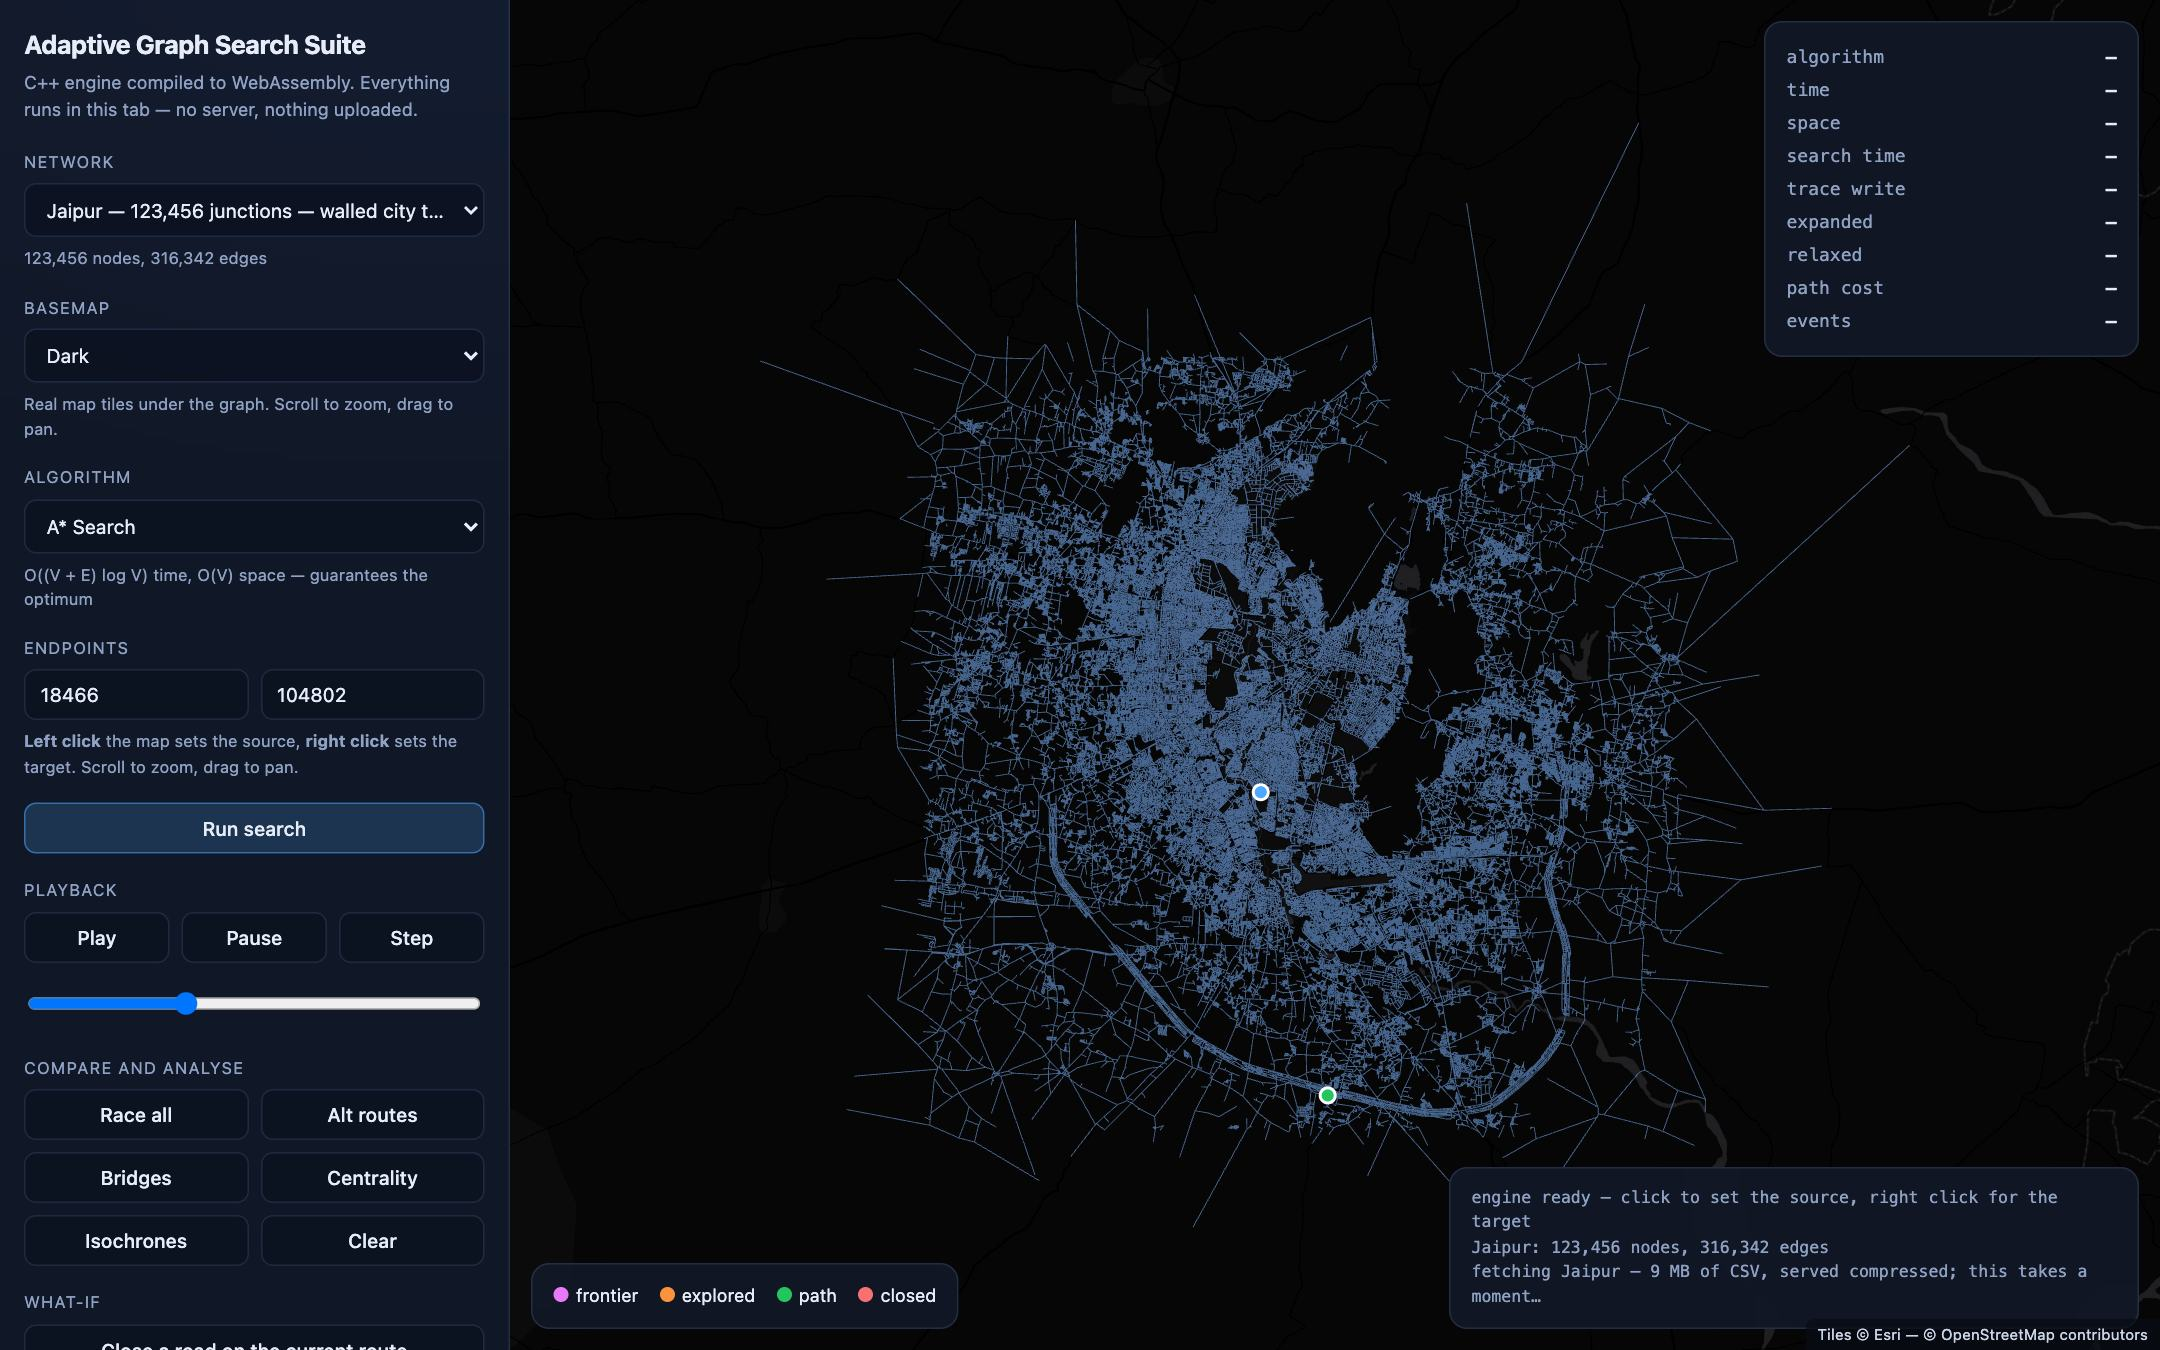
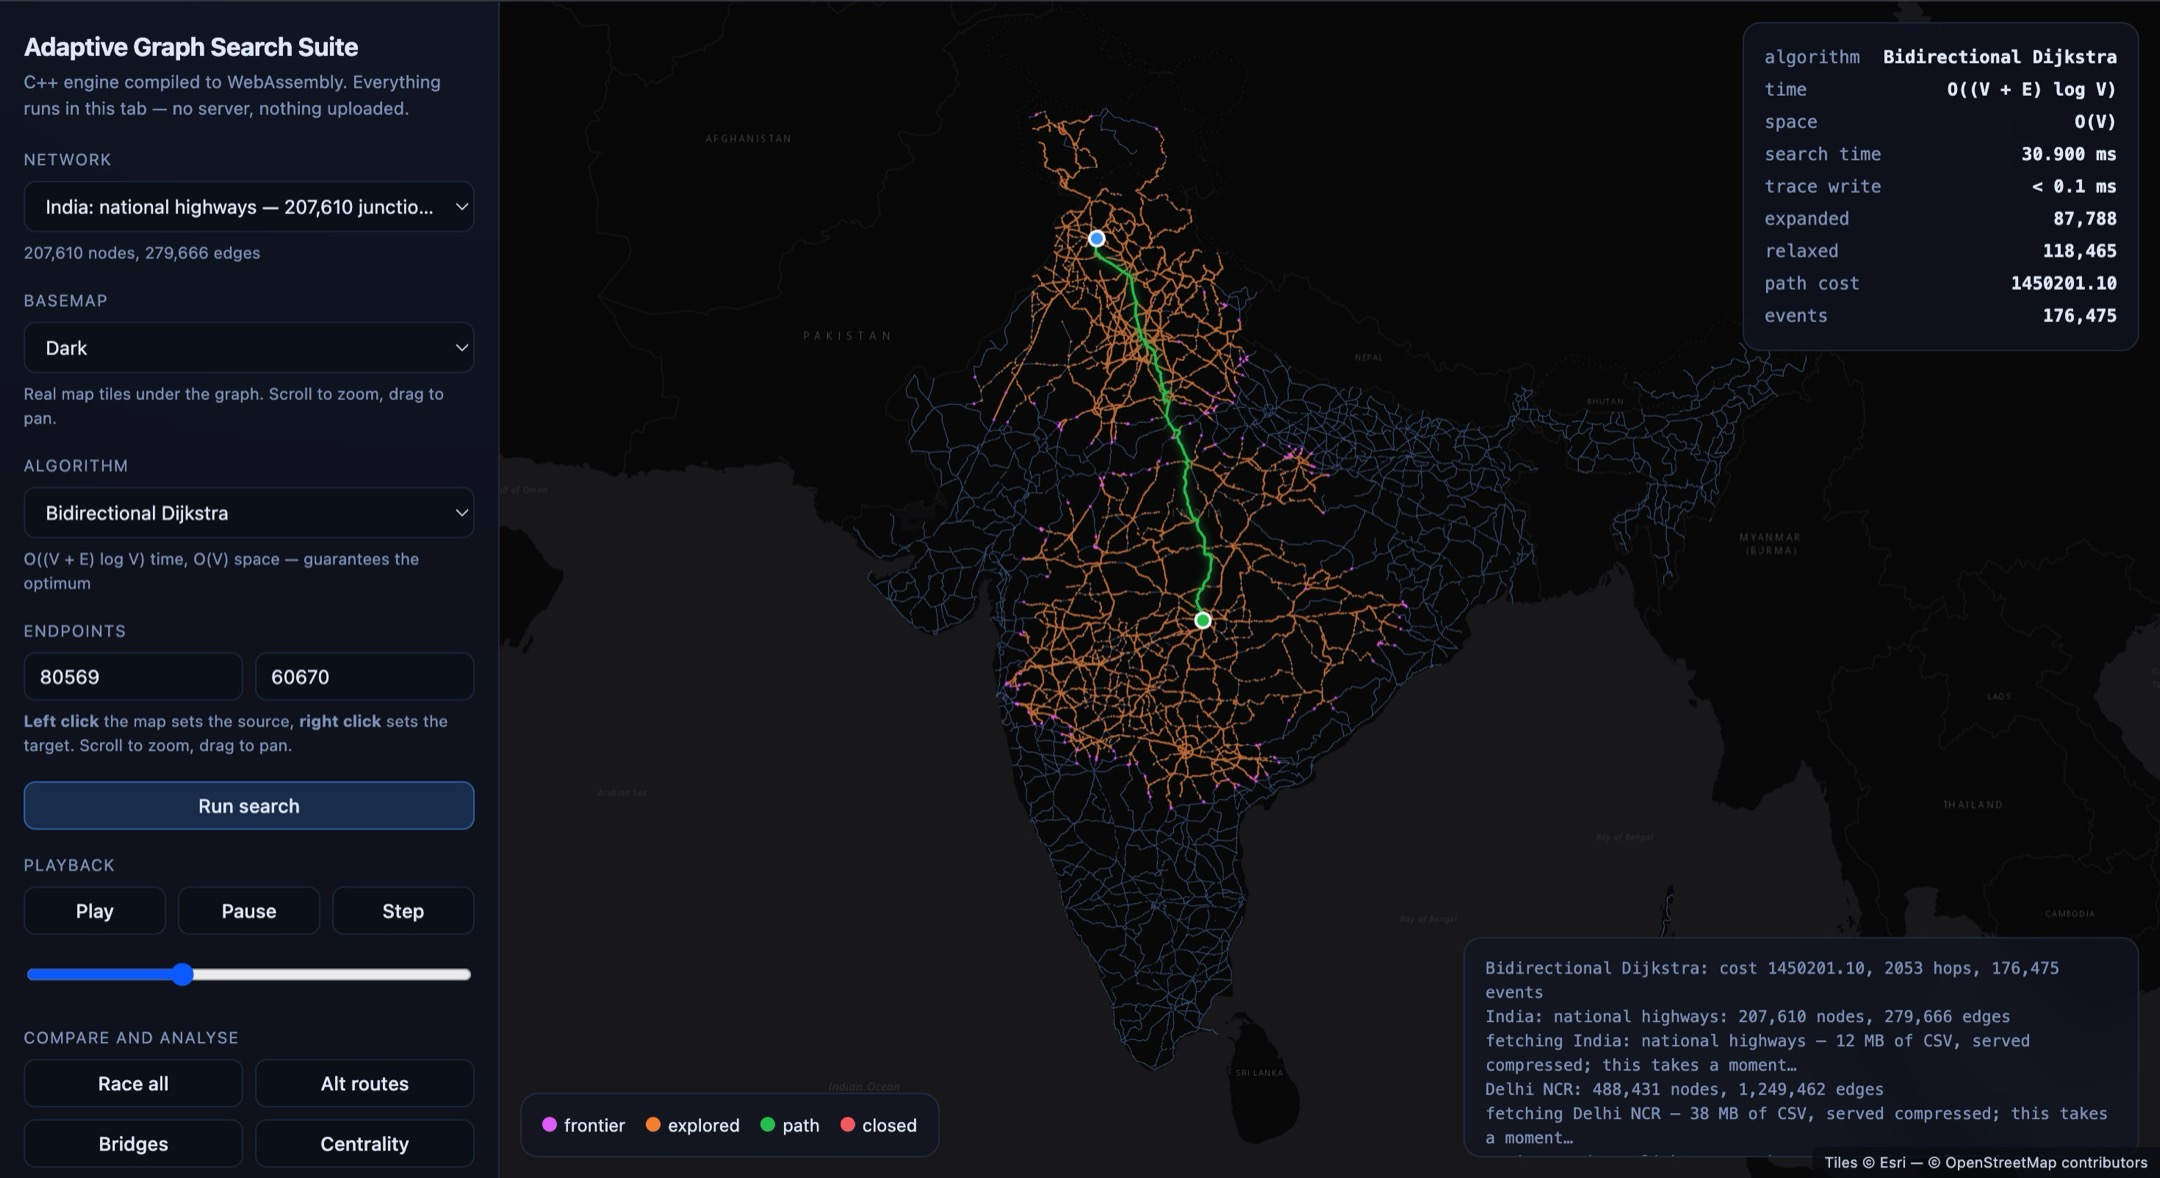
Add the routing engine as a full-bleed band, rebuild the figures as a mosaic
Two screenshots landed: the AGENTIQ dashboard, which could not be captured
because the product sits behind a sign-in, and the Adaptive Graph Search
Suite mid-search across the national highway network.

The graph suite gets its own full-bleed band between the products and the
figures. It is the only place the systems work shows up at any size, and
the screenshot is already near-black so it bleeds into the page rather
than sitting on it as another framed rectangle. The app's own control
panel is cropped out of the band copy: at that size its text collided with
the headline and read as noise. Numbers on it are from the project, not
from the screenshot: 1.7M junctions, 44x faster than Dijkstra, 38ms to
re-cost a 207k-node network.

The short version was an even four-column grid, which read as a dashboard.
It is a mosaic now: a tall flagship frame, a stack of figures pulled across
its right edge, and a staggered row below. Overlaps only ever land on
padding. The flagship caption reserves a right gutter for the stack, and
the wide tile reserves one for the tile that crosses it, both measured
rather than eyeballed.

Fixes a real bug while here: the flagship tile set min-height and its inner
link asked for height 100%, which cannot resolve against a minimum, so the
image came out short and the caption floated mid-tile instead of sitting on
the bottom edge.

diff --git a/src/app/page.tsx b/src/app/page.tsx
@@ -10,6 +10,7 @@ import { PROJECTS, DOMAINS } from "@/content/projects.generated";
 export default function Home() {
   const headline = COMPETITIONS.filter((c) => c.highlight);
   const kadi = PROJECTS.find((p) => p.slug === "kadi");
+  const graph = PROJECTS.find((p) => p.slug === "graphsuite");
   const pick = (s: string) => PROJECTS.find((p) => p.slug === s)!;
   // Six products, paired so each stage overlaps two frames, and every project
   // carries its own audience and note in the gutter beside its own frame.
@@ -227,6 +228,71 @@ export default function Home() {
         </div>
       </section>
 
+      {/* ---------------- the engine, full bleed ---------------- */}
+      {graph?.shot && (
+        <section data-section="Under the products" className="relative border-y border-line">
+          <Link href={`/work/${graph.slug}`} className="group block">
+            {/* the screenshot is already near-black, so it bleeds into the page
+                instead of sitting on it as another framed rectangle */}
+            {/* the app's own control panel is cropped out of this copy: at band
+                size its text collided with the headline and read as noise */}
+            <Image
+              src="/shots/graphsuite-band.jpg"
+              alt="The Adaptive Graph Search Suite running: a bidirectional Dijkstra search across the Indian national highway network."
+              width={1660}
+              height={1178}
+              className="h-[58vh] min-h-[420px] w-full object-cover object-center brightness-[1.22] saturate-[1.12] transition-transform duration-[1.4s] group-hover:scale-[1.03]"
+            />
+            <div
+              aria-hidden
+              className="absolute inset-0"
+              style={{
+                background:
+                  [
+                    // the caption sits bottom left, so the ground is built there
+                    // and the map is left alone through the middle and right
+                    "linear-gradient(to top, var(--bg) 6%, color-mix(in oklab, var(--bg) 78%, transparent) 34%, transparent 66%)",
+                    "linear-gradient(to right, var(--bg) 0%, color-mix(in oklab, var(--bg) 58%, transparent) 17%, color-mix(in oklab, var(--bg) 22%, transparent) 38%, transparent 54%)",
+                  ].join(", "),
+              }}
+            />
+            <div className="absolute inset-x-0 bottom-0 px-5 pb-10 sm:px-8 sm:pb-14">
+              <div className="mx-auto max-w-6xl">
+                <p className="eyebrow">Under the products</p>
+                <h2 className="font-display mt-2 max-w-2xl text-[9vw] leading-[0.94] tracking-[-0.04em] sm:text-[3.4vw]">
+                  Twelve routing algorithms,
+                  <br />
+                  compiled into the browser<span className="text-accent">.</span>
+                </h2>
+                <p className="mt-4 max-w-xl text-sm leading-relaxed text-ink2">
+                  {graph.name}, in C++20 over 1.7M junctions. Contraction Hierarchies reach 44x
+                  faster with 460x fewer settled nodes than Dijkstra, and every route is verified
+                  exact against a reference implementation rather than trusted on the speedup.
+                </p>
+                <dl className="mt-7 grid max-w-xl grid-cols-2 gap-x-8 gap-y-5 sm:grid-cols-4">
+                  {[
+                    ["1.7M", "junctions"],
+                    ["44x", "faster than Dijkstra"],
+                    ["38 ms", "to re-cost 207k nodes"],
+                    ["0", "servers to run it"],
+                  ].map(([v, k]) => (
+                    <div key={k}>
+                      <dt className="font-display text-2xl leading-none tracking-tight text-accent sm:text-3xl">
+                        {v}
+                      </dt>
+                      <dd className="eyebrow mt-1.5">{k}</dd>
+                    </div>
+                  ))}
+                </dl>
+                <span className="mt-7 inline-flex items-center gap-2 text-sm font-medium text-accent">
+                  Read the case study <span className="arrow">↗</span>
+                </span>
+              </div>
+            </div>
+          </Link>
+        </section>
+      )}
+
       {/* ---------------- bento ---------------- */}
       <section data-section="At a glance" className="clear-hud slab-quiet border-y border-line px-5 py-24 sm:px-8 sm:py-32">
         <div className="mx-auto max-w-6xl">
@@ -237,51 +303,88 @@ export default function Home() {
             </h2>
           </Reveal>
 
-          <Stagger className="bento mt-14" gap={0.05}>
-            {kadi?.shot && (
-              <StagItem className="tile-frame tile-frame--media tile-frame--wide">
-                <Link href="/work/kadi" className="group relative block h-full w-full">
-                  <Image src={kadi.shot} alt="The Kadi command dashboard running, with the case-linkage graph and district map." width={1440} height={900}
-                    className="h-full w-full object-cover object-top transition-transform duration-[1.2s] group-hover:scale-[1.04]" />
-                  <span className="absolute inset-x-0 bottom-0 bg-gradient-to-t from-black/90 to-transparent p-6 pt-16">
-                    <span className="eyebrow !text-white/70">Flagship</span>
-                    <span className="font-display mt-1 block text-2xl tracking-tight text-white sm:text-3xl">Kadi <span className="arrow">↗</span></span>
-                    <span className="mt-1 block text-xs text-white/75">59,985 FIRs across 31 districts, deployed for the Karnataka State Police</span>
+          <Stagger className="mosaic mt-14" gap={0.05}>
+            <StagItem className="mosaic__media">
+              {kadi?.shot && (
+                <span className="tile-frame tile-frame--media block h-full">
+                  <Link href="/work/kadi" className="group relative block h-full w-full">
+                    <Image
+                      src={kadi.shot}
+                      alt="The Kadi command dashboard running, with the case-linkage graph and district map."
+                      width={1440}
+                      height={900}
+                      className="h-full w-full object-cover object-top transition-transform duration-[1.2s] group-hover:scale-[1.04]"
+                    />
+                    <span className="absolute inset-x-0 bottom-0 bg-gradient-to-t from-black/90 to-transparent p-6 pt-16 lg:pr-32">
+                      <span className="eyebrow !text-white/70">Flagship</span>
+                      <span className="font-display mt-1 block text-2xl tracking-tight text-white sm:text-3xl">
+                        Kadi <span className="arrow">↗</span>
+                      </span>
+                      <span className="mt-1 block text-xs text-white/75">
+                        59,985 FIRs across 31 districts, deployed for the Karnataka State Police
+                      </span>
+                    </span>
+                  </Link>
+                </span>
+              )}
+            </StagItem>
+
+            <StagItem className="mosaic__stack">
+              <span className="tile-frame tile-frame--accent ticks">
+                <span className="eyebrow !text-white/75">Best forecast</span>
+                <span className="block">
+                  <span className="tile-num block">0.870</span>
+                  <span className="mt-2 block text-xs leading-relaxed text-white/85">
+                    AUC, three months ahead, on Kadi&rsquo;s state-wide crime forecast
                   </span>
-                </Link>
-              </StagItem>
-            )}
-            <StagItem className="tile-frame tile-frame--accent ticks">
-              <p className="eyebrow !text-white/75">Best forecast</p>
-              <div><p className="tile-num">0.870</p>
-                <p className="mt-2 text-xs leading-relaxed text-white/85">AUC, three months ahead, on Kadi&rsquo;s state-wide crime forecast</p></div>
+                </span>
+              </span>
+              <span className="tile-frame">
+                <span className="eyebrow">Cost cut</span>
+                <span className="block">
+                  <span className="tile-num block text-accent">78%</span>
+                  <span className="mt-2 block text-xs leading-relaxed text-muted">
+                    Lower spend at a 77% cache hit rate, with zero wrong answers on new questions
+                  </span>
+                </span>
+              </span>
+              <span className="tile-frame tile-frame--fill ticks">
+                <span className="eyebrow">Published</span>
+                <span className="block">
+                  <span className="tile-num block">3</span>
+                  <span className="mt-2 block text-xs leading-relaxed text-muted">
+                    packages on PyPI: cachellm-proxy, creditsetu, medguardx-core
+                  </span>
+                </span>
+              </span>
             </StagItem>
-            <StagItem className="tile-frame">
-              <p className="eyebrow">Cost cut</p>
-              <div><p className="tile-num text-accent">78%</p>
-                <p className="mt-2 text-xs leading-relaxed text-muted">Lower spend at a 77% cache hit rate, with zero wrong answers on new questions</p></div>
-            </StagItem>
-            <StagItem className="tile-frame tile-frame--fill ticks">
-              <p className="eyebrow">Published</p>
-              <div><p className="tile-num">3</p>
-                <p className="mt-2 text-xs leading-relaxed text-muted">packages on PyPI: cachellm-proxy, creditsetu, medguardx-core</p></div>
-            </StagItem>
-            <StagItem className="tile-frame">
-              <p className="eyebrow">Largest graph</p>
-              <div><p className="tile-num text-accent">35.7M</p>
-                <p className="mt-2 text-xs leading-relaxed text-muted">edges in Orbweaver&rsquo;s account graph, 0.7292 ring precision against a 0.2242 base rate</p></div>
-            </StagItem>
-            <StagItem className="tile-frame tile-frame--wide">
-              <p className="eyebrow">The rule I keep</p>
-              <p className="mt-3 text-[15px] leading-relaxed text-ink2">
-                Where a result is unflattering I publish it anyway: the 0.371 genuine customers wrongly
-                swept in per fraudster caught, and 36 dated failures beside the wins.
-              </p>
-            </StagItem>
-            <StagItem className="tile-frame">
-              <p className="eyebrow">Languages shipped</p>
-              <div><p className="tile-num text-accent">12</p>
-                <p className="mt-2 text-xs leading-relaxed text-muted">Indian languages in KrishiMitra, free to use, across 13 modules</p></div>
+
+            <StagItem className="mosaic__row">
+              <span className="tile-frame">
+                <span className="eyebrow">The rule I keep</span>
+                <span className="mt-3 block text-[15px] leading-relaxed text-ink2">
+                  Where a result is unflattering I publish it anyway: the 0.371 genuine customers
+                  wrongly swept in per fraudster caught, and 36 dated failures beside the wins.
+                </span>
+              </span>
+              <span className="tile-frame">
+                <span className="eyebrow">Largest graph</span>
+                <span className="block">
+                  <span className="tile-num block text-accent">35.7M</span>
+                  <span className="mt-2 block text-xs leading-relaxed text-muted">
+                    edges in Orbweaver&rsquo;s account graph, 0.7292 ring precision against a 0.2242 base rate
+                  </span>
+                </span>
+              </span>
+              <span className="tile-frame ticks">
+                <span className="eyebrow">Languages shipped</span>
+                <span className="block">
+                  <span className="tile-num block text-accent">12</span>
+                  <span className="mt-2 block text-xs leading-relaxed text-muted">
+                    Indian languages in KrishiMitra, free to use, across 13 modules
+                  </span>
+                </span>
+              </span>
             </StagItem>
           </Stagger>
         </div>

diff --git a/src/app/globals.css b/src/app/globals.css
@@ -410,6 +410,60 @@ body {
   color: #fff;
   border-color: transparent;
 }
+/* ---------- the short version: an overlapping mosaic ----------
+   These tiles used to sit in an even four-column grid, which read as a
+   dashboard rather than as a page. They now overlap: a tall flagship frame on
+   the left, a stack pulled across its right edge, and a row below pulled up
+   over both. Every tile keeps an opaque background and a lifted shadow so the
+   stacking reads as depth, and overlaps only ever happen at edges, never over
+   another tile's text. */
+.mosaic { display: flex; flex-direction: column; gap: 14px; }
+.mosaic__stack, .mosaic__row { display: flex; flex-direction: column; gap: 14px; }
+
+@media (min-width: 1000px) {
+  .mosaic {
+    display: grid;
+    grid-template-columns: minmax(0, 7fr) minmax(0, 5fr);
+    align-items: start;
+    gap: 0;
+  }
+  .mosaic__media { grid-column: 1; grid-row: 1; }
+  /* a definite height, not a minimum: the inner link is h-full, and a
+     percentage height cannot resolve against a min-height alone, which left
+     the image short and the caption floating mid-tile */
+  .mosaic__media .tile-frame { height: 540px; min-height: 0; }
+
+  .mosaic__stack {
+    grid-column: 2;
+    grid-row: 1;
+    margin: 54px 0 0 -96px;
+    gap: 16px;
+    z-index: 3;
+  }
+
+  .mosaic__row {
+    grid-column: 1 / -1;
+    grid-row: 2;
+    /* the stack is the taller of the two above, so this pull is measured against
+       its bottom edge. -16px eats the last tile's padding and stops there:
+       anything deeper started covering the words inside it. */
+    margin-top: -16px;
+    z-index: 4;
+    display: grid;
+    grid-template-columns: repeat(12, minmax(0, 1fr));
+    align-items: start;
+    gap: 0;
+  }
+    /* the wide tile reserves a right gutter the size of the overlap, so the tile
+     that crosses it lands on padding rather than on the sentence */
+  .mosaic__row > *:nth-child(1) { grid-column: 1 / 6; padding-right: 128px; z-index: 5; }
+  .mosaic__row > *:nth-child(2) { grid-column: 5 / 10; margin-top: 44px; z-index: 6; }
+  .mosaic__row > *:nth-child(3) { grid-column: 10 / -1; margin-top: 18px; z-index: 5; }
+
+  /* anything that sits on top of something else earns a shadow */
+  .mosaic__stack > *, .mosaic__row > * { box-shadow: 0 26px 54px -30px rgb(3 8 16 / .62); }
+}
+
 .tile-num {
   font-family: var(--font-display-stack), sans-serif;
   font-weight: 700;

diff --git a/src/content/projects.generated.ts b/src/content/projects.generated.ts
@@ -171,7 +171,7 @@ export const PROJECTS: Project[] = [
     note: ``,
     live: `https://agentiq-vert.vercel.app`,
     code: `https://github.com/adarshcod30/AGENTIQ`,
-    shot: ``,
+    shot: `/shots/agentiq.jpg`,
     stack: [`Docker`, `Express`, `GitHub Actions`, `LLM Agents`, `MCP`, `Node.js`, `OpenAPI 3.1`, `Vitest`, `Zod`],
     highlights: [
       `Autonomy only sells if it is accountable. Framed an agentic testing platform around one rule: an agent may act, but only through 19 schema-validated tools, each granted per host and audited.`,
